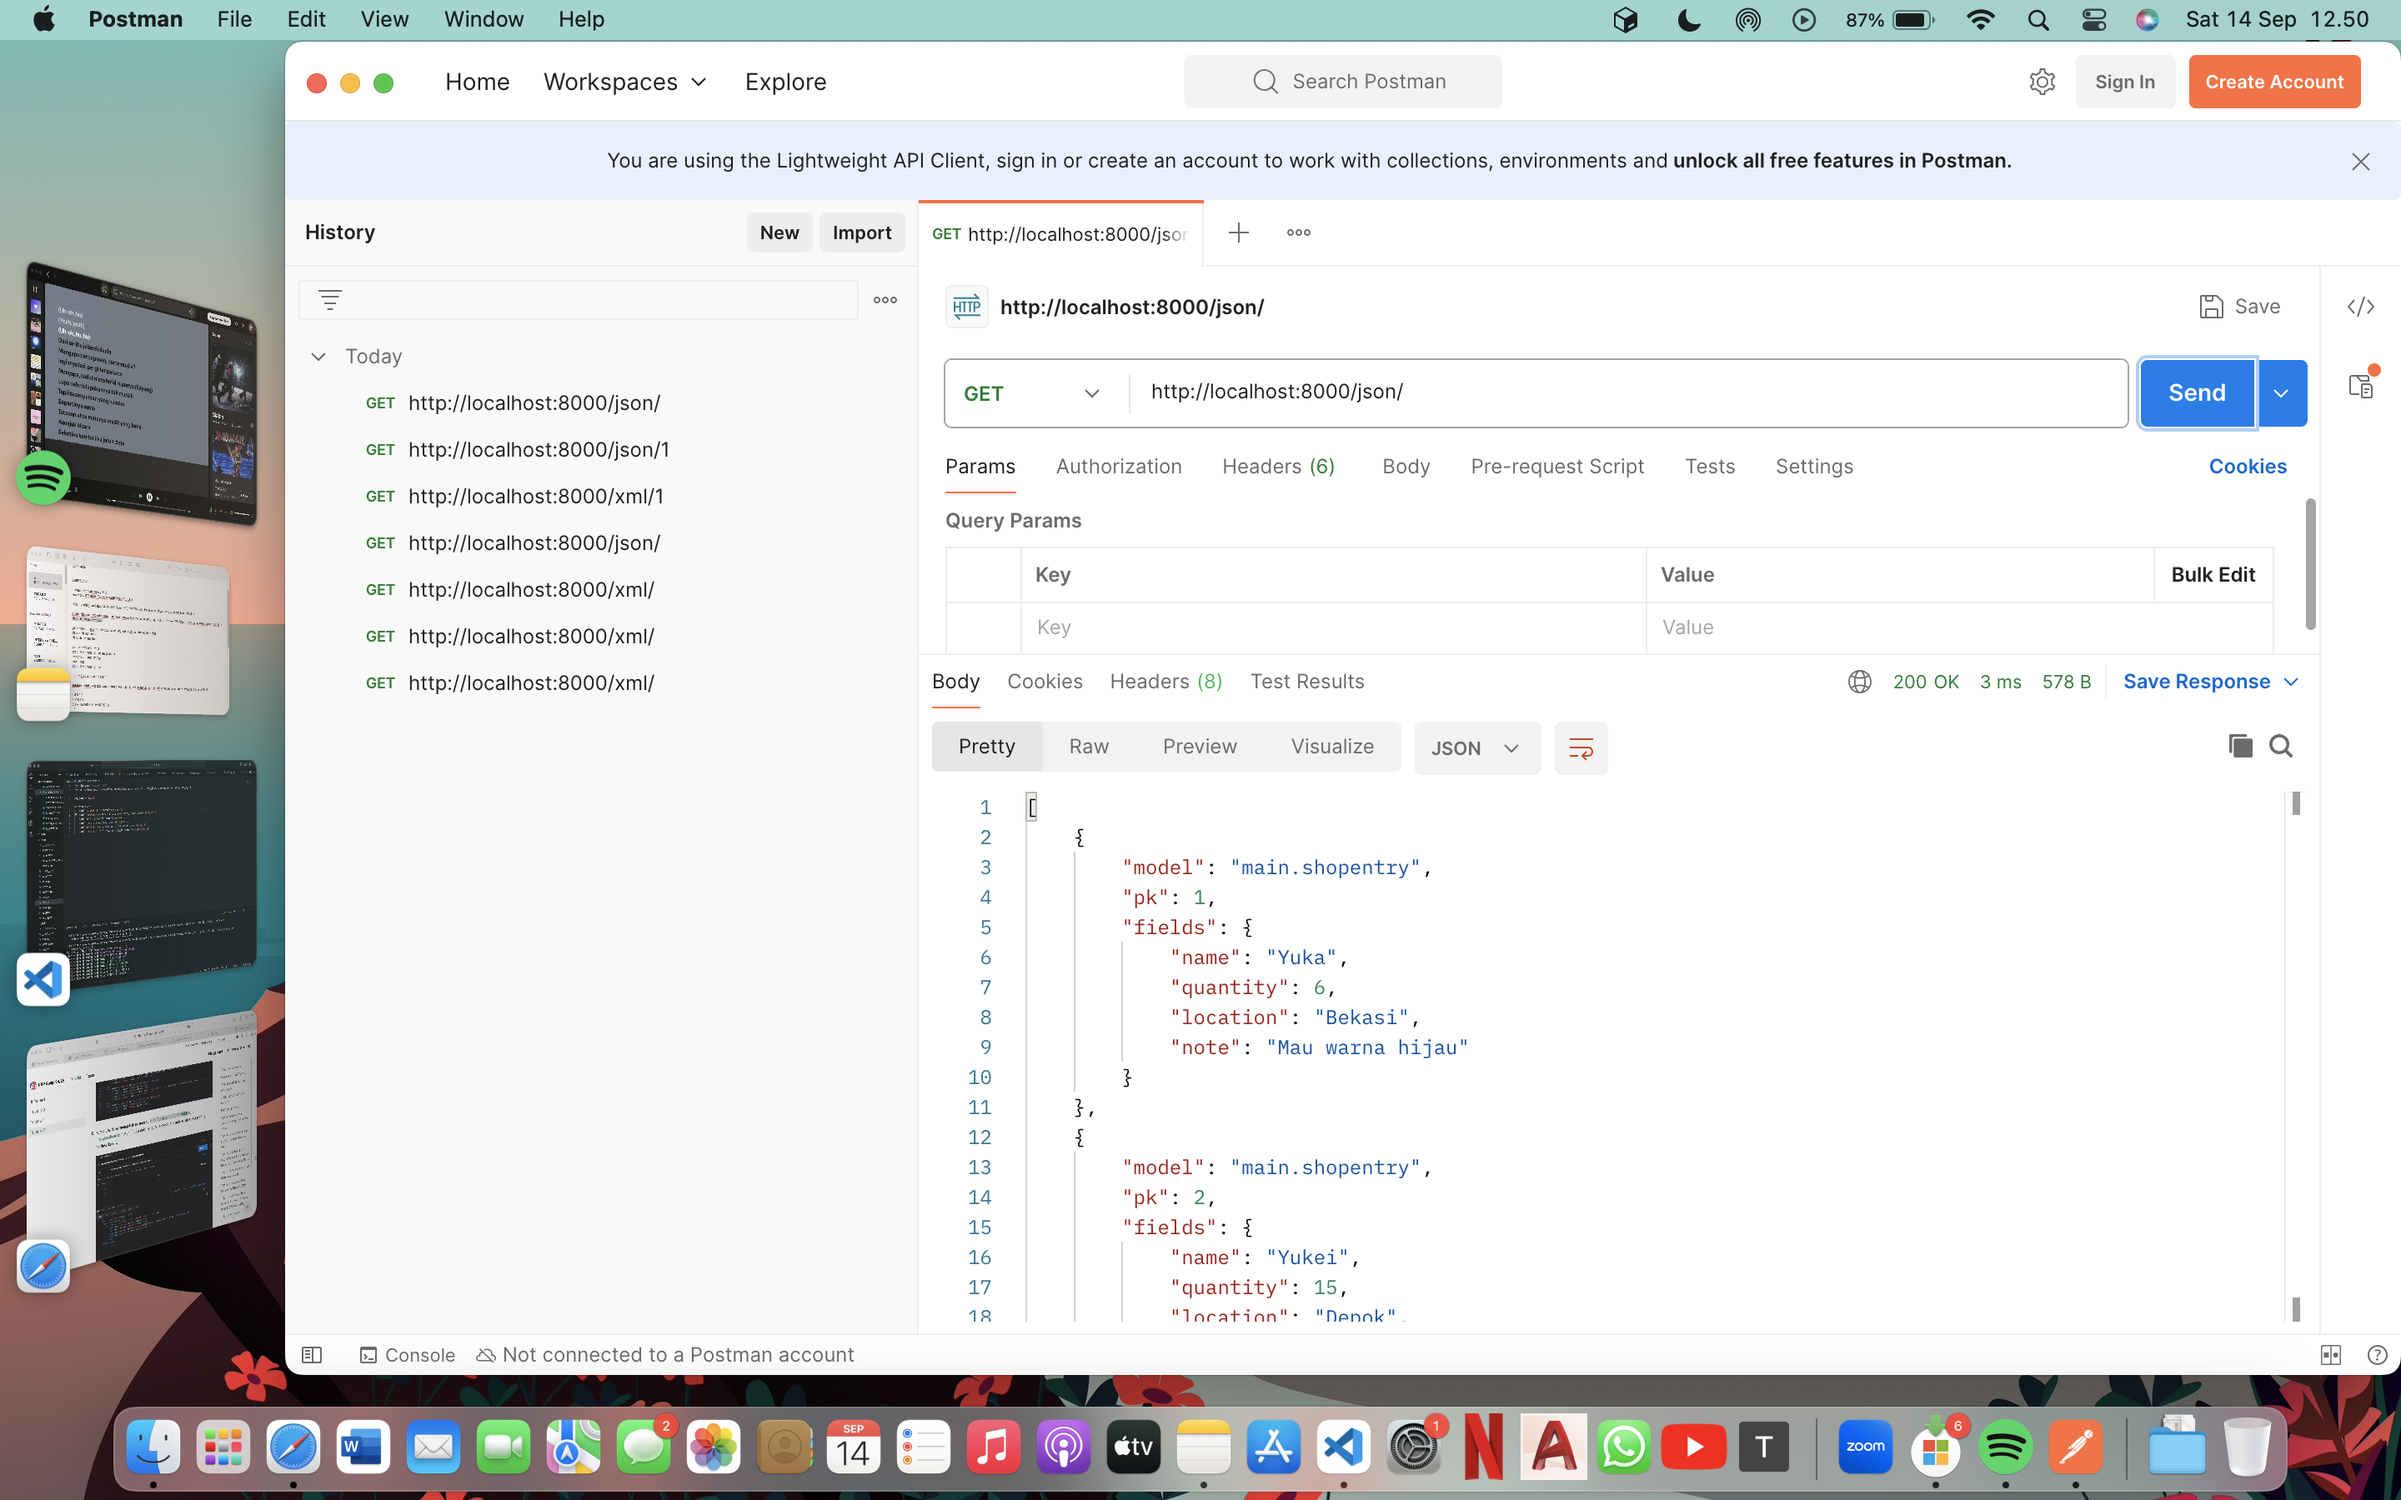
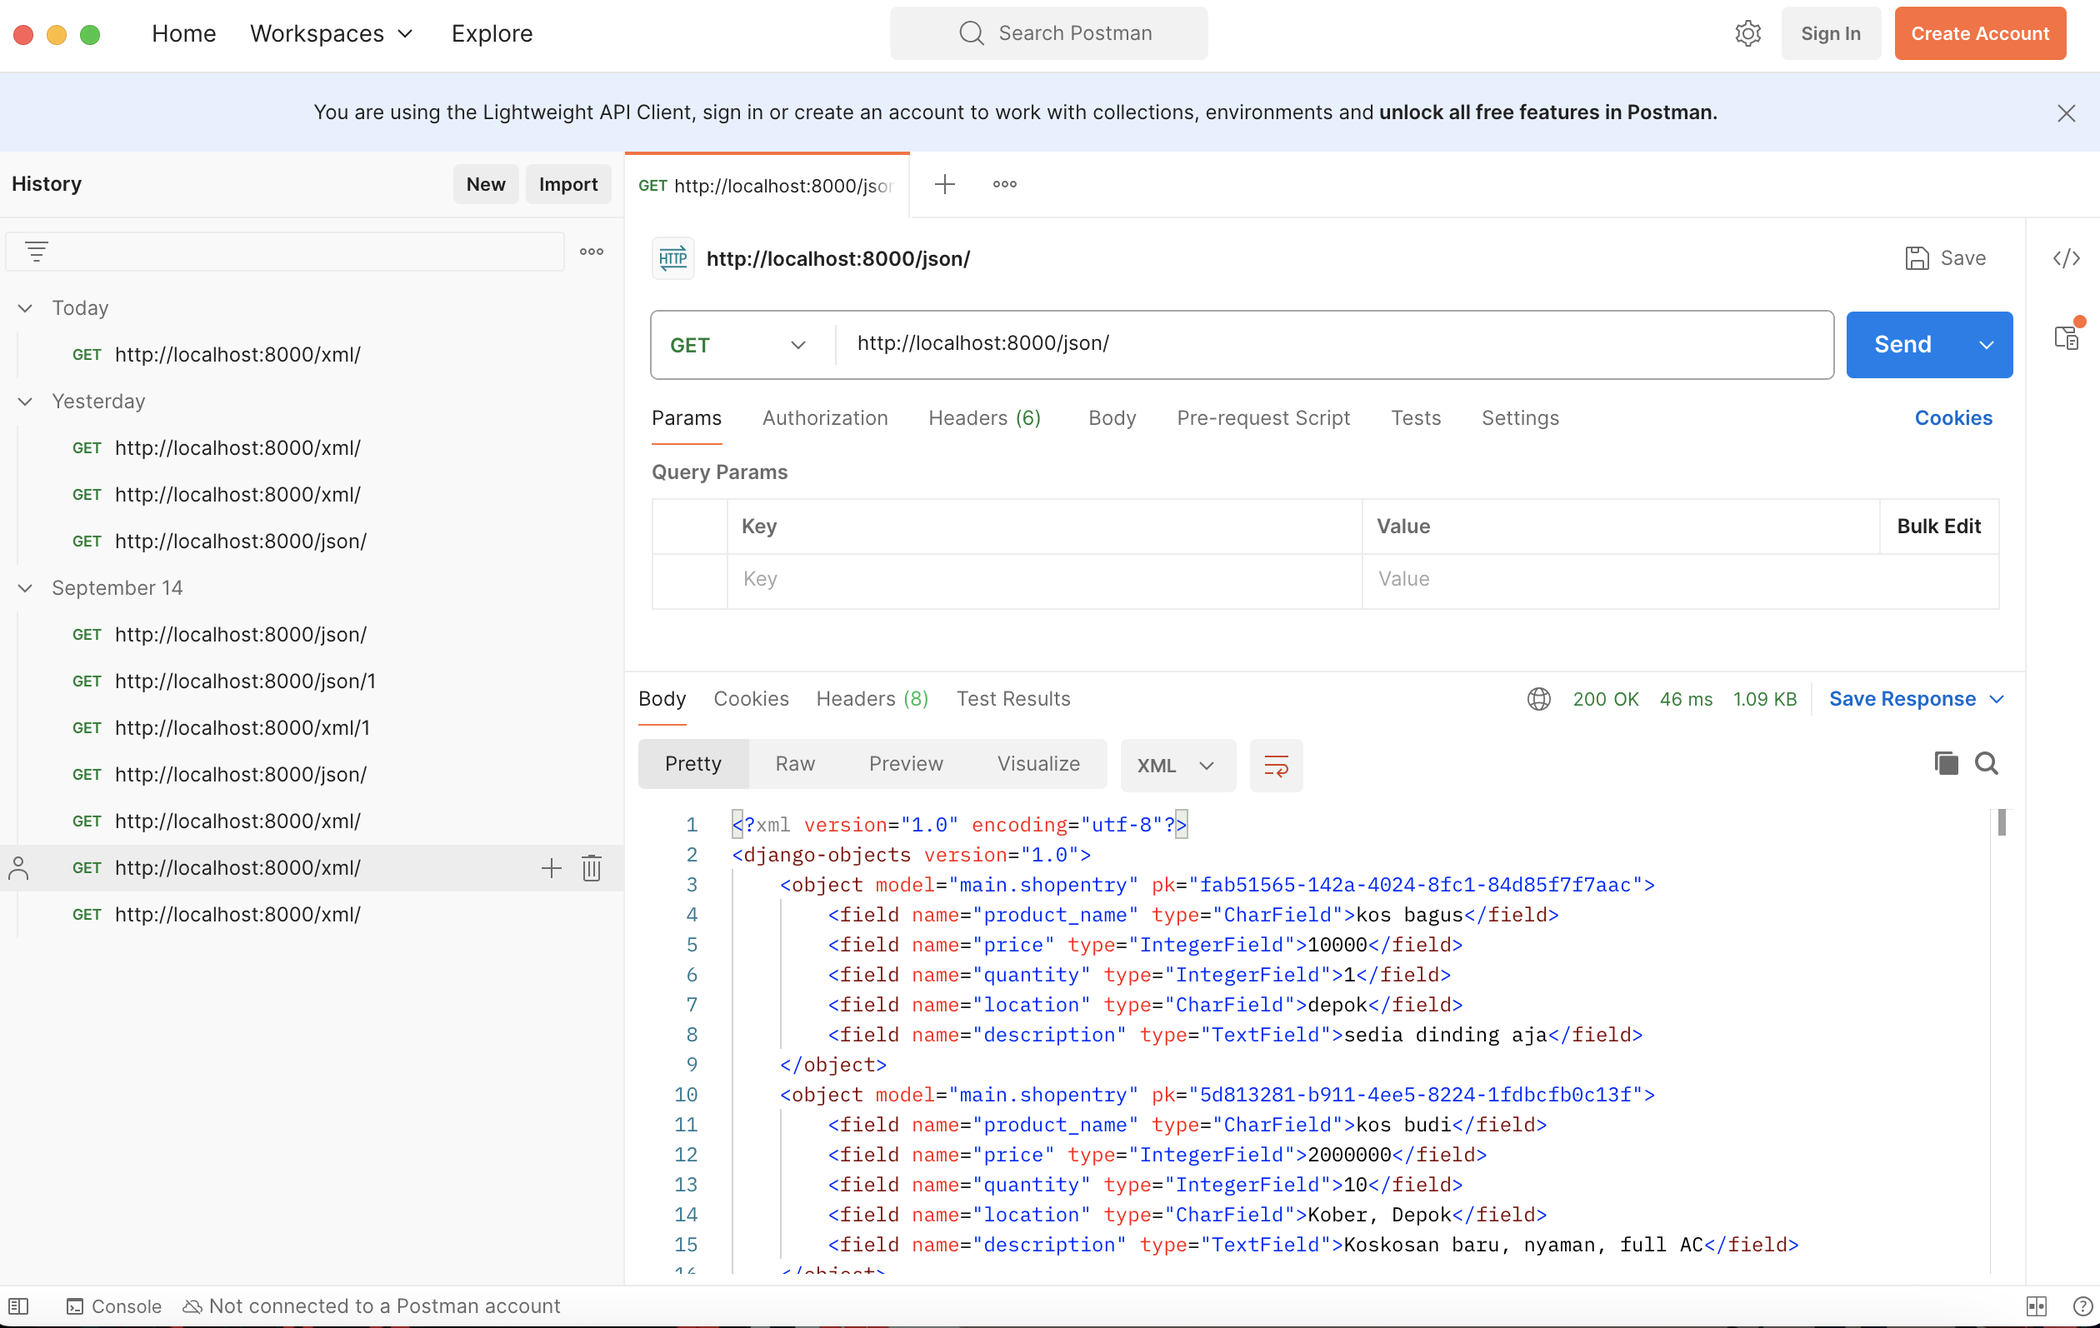
update readme

diff --git a/readme.md b/readme.md
@@ -4,7 +4,7 @@
 
 > **YuKita** merupakan proyek Django sederhana berbentuk e-commerce berbasis website untuk memenuhi Tugas Individu mata kuliah PBP Gasal 2024/2025
 
-[Kunjungi Website YuKita](http://gnade-yuka-yukita.pbp.cs.ui.ac.id/)
+[ 🏠 Kunjungi Website YuKita 🏠 ](http://gnade-yuka-yukita.pbp.cs.ui.ac.id/)
 
 ## **Penjelasan Tugas**
 
@@ -153,7 +153,7 @@ Pada Django, model disebut sebagai ORM (Object-Relational Mapping) karena menyed
 ## **Jawaban Tugas 3**
 
 * ### Mengapa kita memerlukan data delivery dalam pengimplementasian sebuah platform?
-**Data delivery** dalam pengimplementasian sebuah platform diperlukan karena bertujuan untuk memastikan bahwa data yang dikirim antar bagian sistem (misalnya, antara frontend dan backend atau antar microservices) dapat dipertukarkan dengan cara yang efisien, aman, dan konsisten. Tanpa mekanisme pengiriman data yang efektif, aplikasi tidak akan dapat menyajikan informasi yang tepat kepada pengguna secara real-time, menyebabkan pengalaman pengguna yang buruk. Selain itu, data delivery memungkinkan platform untuk beroperasi secara terdistribusi, mendukung skala besar, serta memfasilitasi komunikasi antar komponen yang berbeda secara seamless.
+**Data delivery** dalam pengimplementasian sebuah platform diperlukan karena bertujuan untuk memastikan bahwa data yang dikirim antar bagian sistem (misalnya, antara frontend dan backend atau antar microservices) dapat ditukar dengan cara yang efisien, aman, dan konsisten. Tanpa mekanisme pengiriman data yang efektif, aplikasi tidak akan dapat menyajikan informasi yang tepat kepada pengguna secara real-time, menyebabkan pengalaman pengguna yang buruk. Selain itu, data delivery memungkinkan platform untuk beroperasi secara terdistribusi, mendukung skala besar, serta memfasilitasi komunikasi antar komponen yang berbeda secara seamless.
 
 * ### Mana yang lebih baik antara XML dan JSON? Mengapa JSON lebih populer dibandingkan XML?
 Antara **XML** dan **JSON**, **JSON** lebih baik dan populer untuk pengiriman data dalam aplikasi modern. Hal ini karena JSON lebih ringan dan lebih mudah dibaca oleh manusia maupun mesin dibandingkan XML, yang menggunakan tag berlapis dan lebih verbose. JSON juga lebih mudah diolah dengan JavaScript, yang merupakan bahasa umum di web development. Sementara XML memiliki kemampuan untuk mendeskripsikan struktur data yang lebih kompleks (seperti metadata dan skema yang dapat divalidasi), JSON tetap lebih disukai untuk API modern karena kecepatan dan kesederhanaannya. Oleh karena itu, JSON lebih populer karena performanya yang lebih efisien dalam konteks pengiriman data di web.
@@ -177,7 +177,7 @@ from main.models import ShopEntry
 class ShopEntryForm(ModelForm):
     class Meta:
         model = ShopEntry 
-        fields = ["name", "quantity", "location", "note"]
+        fields = ["product_name", "price", "quantity", "location", "description"]
 ```
 
 Selain itu, saya juga mengubah `show_main` pada `views.py` menjadi
@@ -187,13 +187,14 @@ def show_main(request):
     shop_entries = ShopEntry.objects.all()
     
     context = {
-        'product_name': 'Sofa Ruang Tamu',
-        'product_price': 'IDR 1,500,000',
-        'product_description': 'A sofa-bed with small, neat dimensions which is easy to furnish with, even when space is limited. You can make the sofa more comfortable and personal by completing with pillows in different colours and patterns.',
-        'stock': 1,
-        'product_location': 'Jakarta, Surabaya, Bali',
+        # 'product_name': 'Sofa Ruang Tamu',
+        # 'product_price': 'IDR 1,500,000',
+        # 'product_description': 'A sofa-bed with small, neat dimensions which is easy to furnish with, even when space is limited. You can make the sofa more comfortable and personal by completing with pillows in different colours and patterns.',
+        # 'stock': 1,
+        # 'product_location': 'Jakarta, Surabaya, Bali',
         'name' : "Gnade Yuka",
         'kelas' : "PBP-B",
+        'shop_entries' : shop_entries
     }
 
     return render(request, "main.html", context)
@@ -251,19 +252,21 @@ def create_shop_entry(request):
     {% else %}
     <table>
       <tr>
-        <th>Name</th>
-        <th>Quantity</th>
-        <th>Location</th>
-        <th>Note</th>
+        <th>Nama</th>
+        <th>Harga</th>
+        <th>Jumlah Kamar</th>
+        <th>Lokasi</th>
+        <th>Deskripsi</th>
       </tr>
       
       <!-- Display each shop entry -->
       {% for shop_entry in shop_entries %}
       <tr>
-        <td>{{ shop_entry.name }}</td>
+        <td>{{ shop_entry.product_name }}</td>
+        <td>{{ shop_entry.price }}</td>
         <td>{{ shop_entry.quantity }}</td>
         <td>{{ shop_entry.location }}</td>
-        <td>{{ shop_entry.note }}</td>
+        <td>{{ shop_entry.description }}</td>
       </tr>
       {% endfor %}
     </table>
